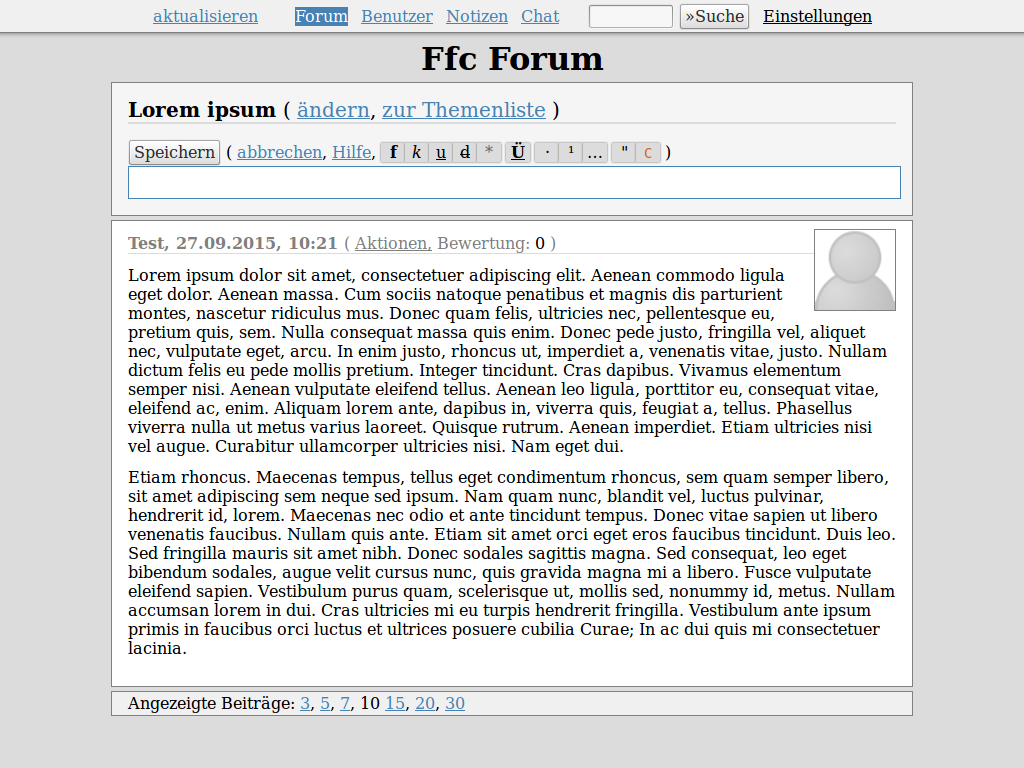
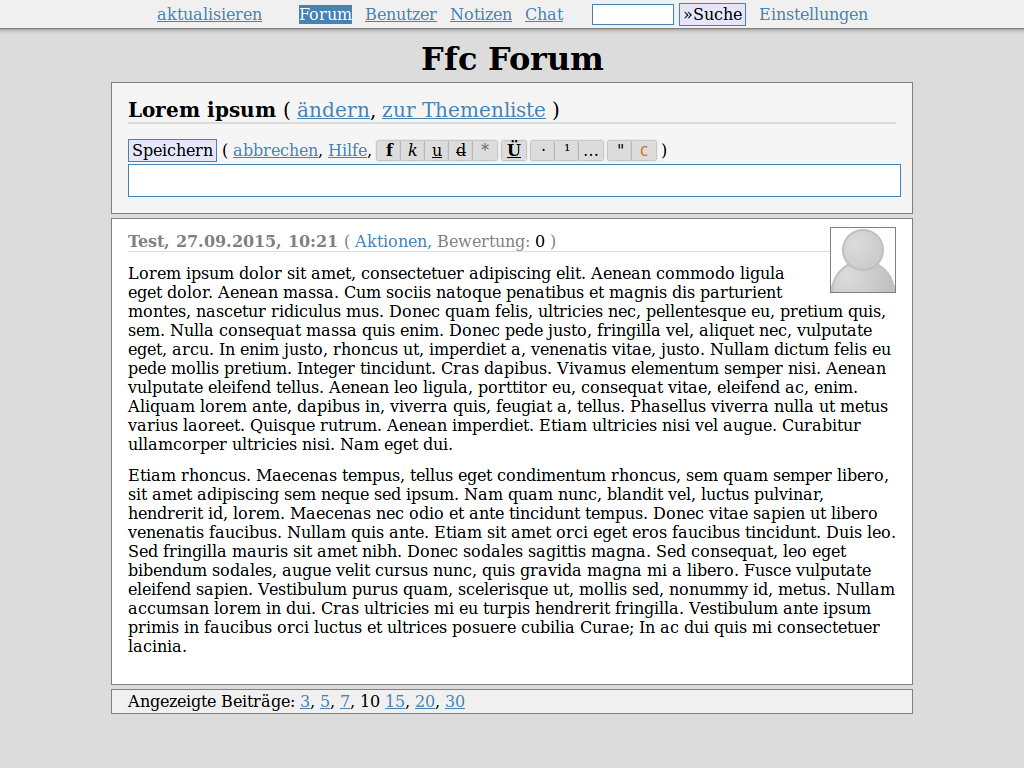
Kleine optische Anpassungen + Screenshot

Changed region(s): [[0.0938, 0.25, 0.9062, 0.9375], [0.0, 0.0, 1.0, 0.0625], [0.125, 0.1562, 0.6562, 0.2188]]

diff --git a/public/theme/colors.css b/public/theme/colors.css
@@ -59,11 +59,13 @@ button:hover {
 a > img {
     border: .1em steelblue solid;
 }
-a {
+a, .othersmenulinktext {
     color: steelblue;
-    text-decoration: underline;
     border: none;
     background: none;
+}
+a {
+    text-decoration: underline;
     cursor: pointer;
 }
 a:hover {
